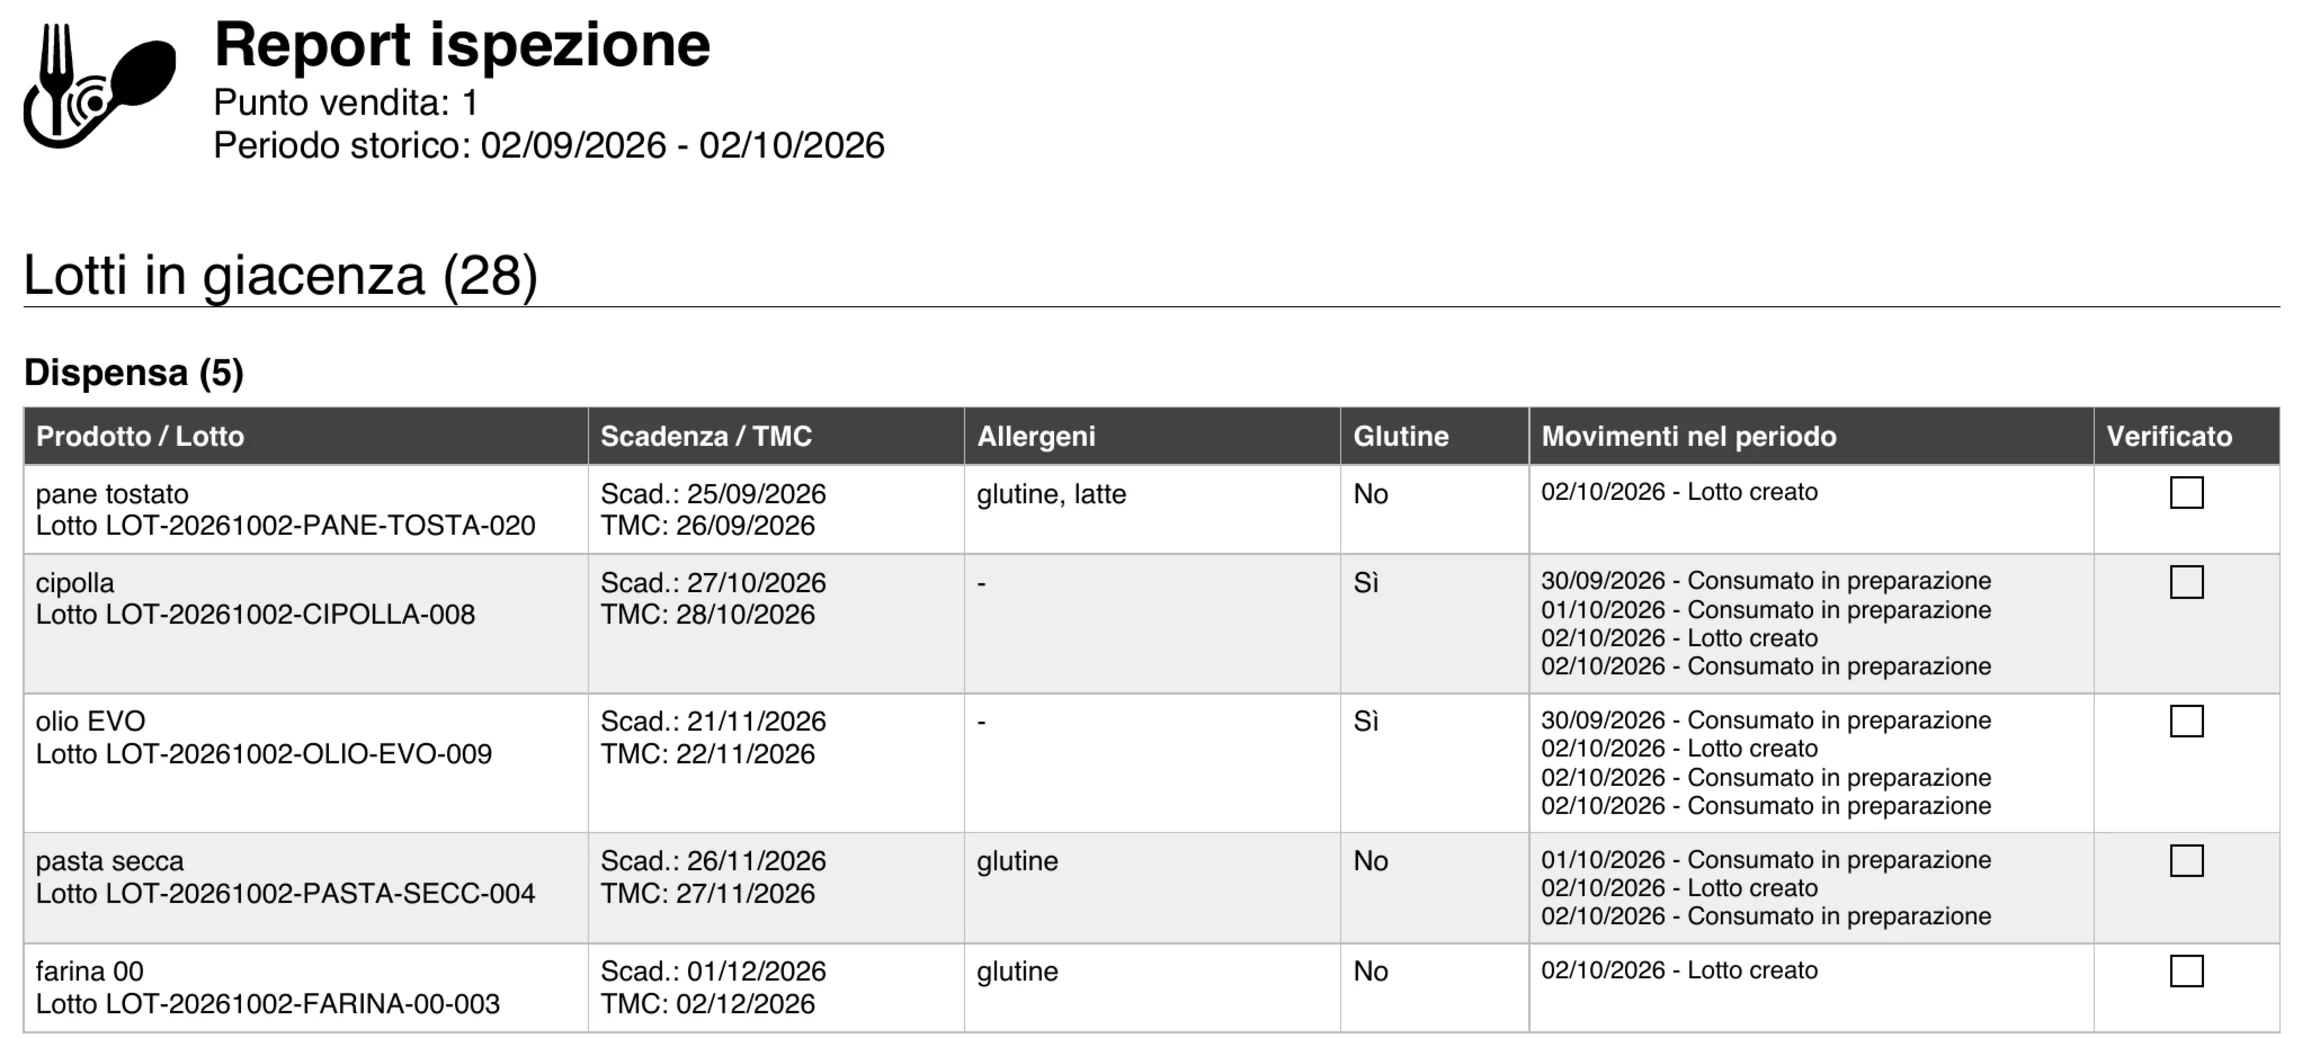
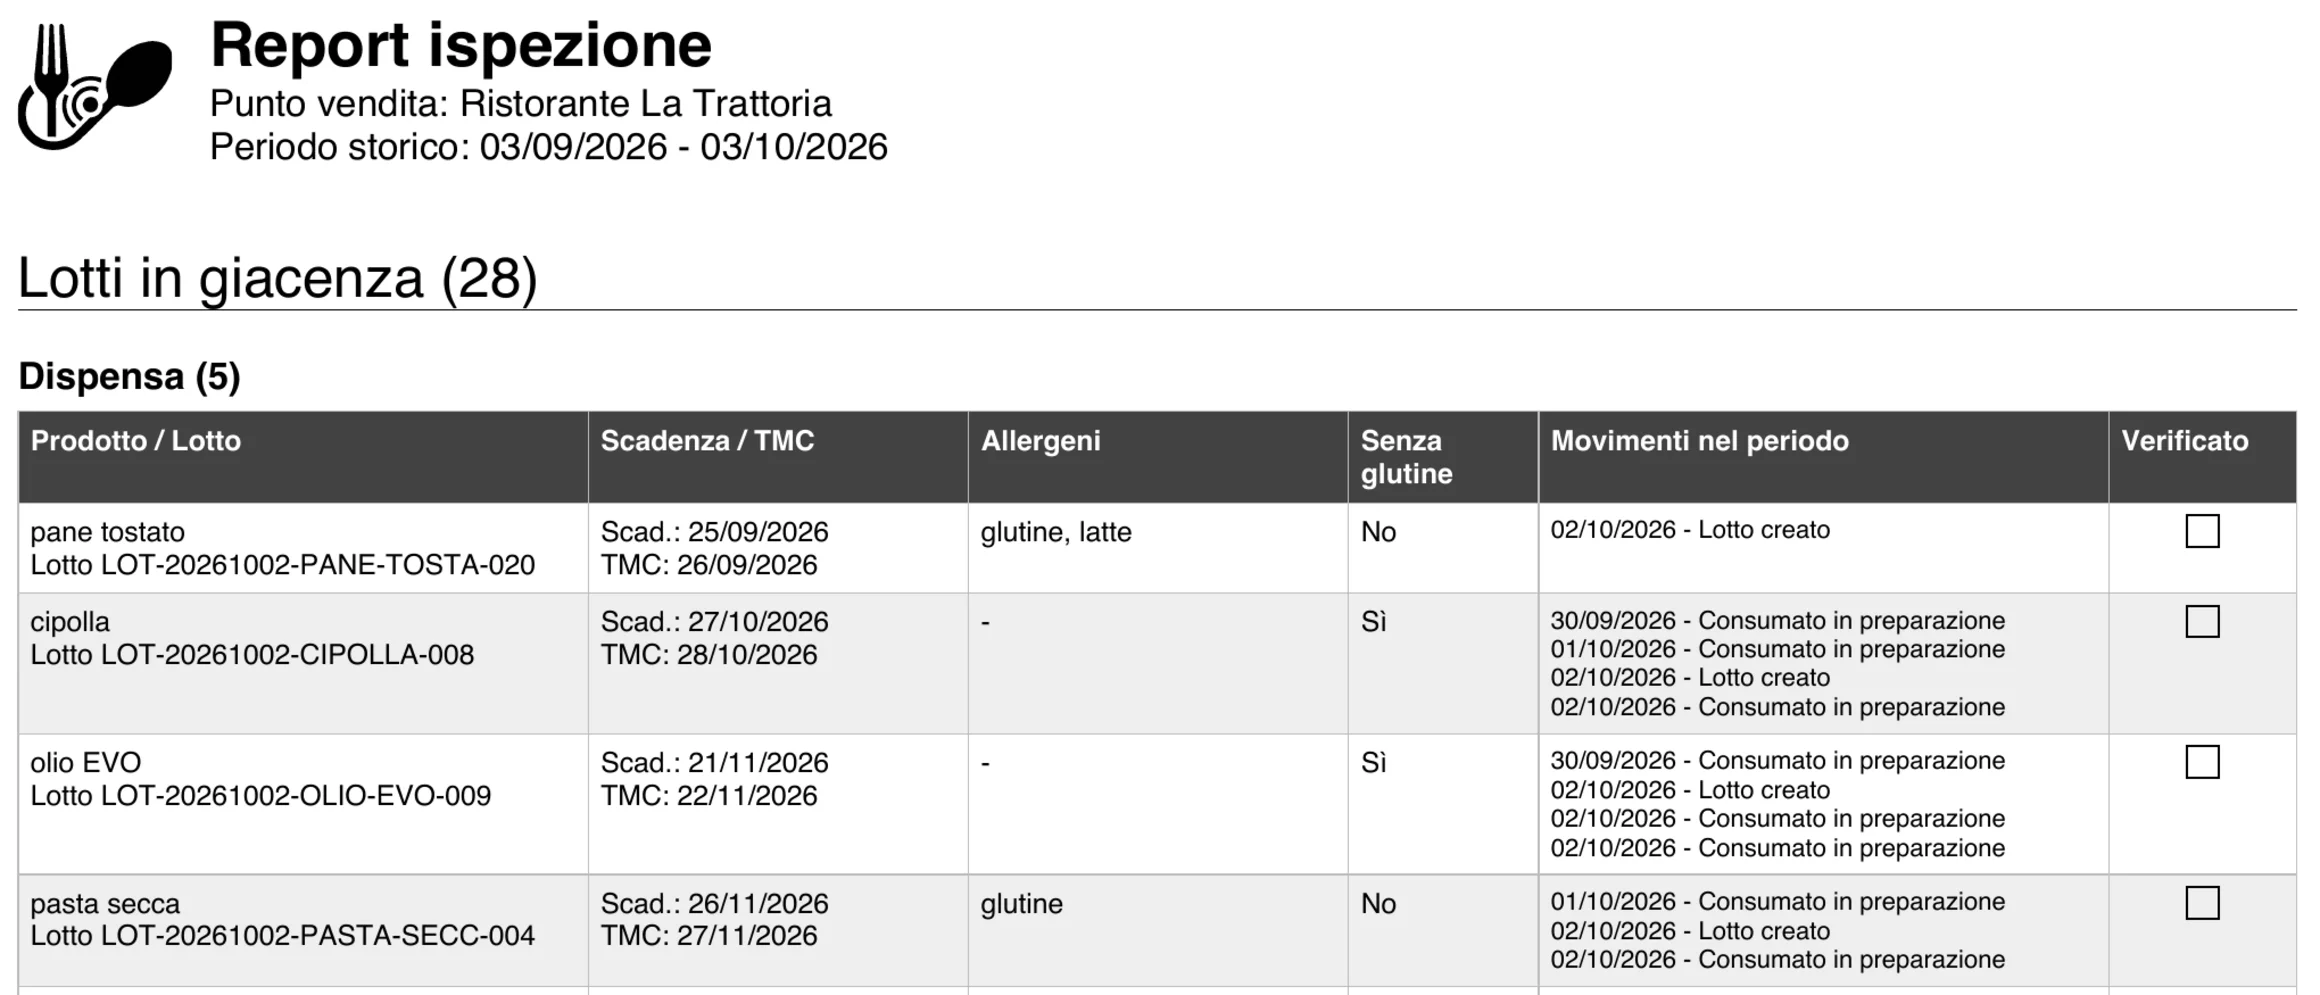
fix: report ispezione aggiornato con colonna Senza glutine e nome del punto vendita

diff --git a/site/report-ispezione-haccp.html b/site/report-ispezione-haccp.html
@@ -111,7 +111,7 @@
 <h2>Il report PDF di Restrackit</h2>
 <p>Dall'app generi un report che raccoglie i lotti in giacenza con scadenza, TMC, allergeni e movimenti, le preparazioni con i lotti usati, le letture di temperatura (punto, valore, operatore, azione correttiva) e le pulizie eseguite.</p>
 <figure>
-  <img src="/img/report-ispezione-1160.webp" srcset="/img/report-ispezione-800.webp 800w, /img/report-ispezione-1160.webp 1160w" sizes="(max-width: 792px) calc(100vw - 32px), 760px" width="1160" height="519" loading="lazy" decoding="async" alt="Prima pagina di un report ispezione generato da Restrackit: lotti in giacenza con scadenza, TMC, allergeni e movimenti, raggruppati per conservazione.">
+  <img src="/img/report-ispezione-1160.webp" srcset="/img/report-ispezione-800.webp 800w, /img/report-ispezione-1160.webp 1160w" sizes="(max-width: 792px) calc(100vw - 32px), 760px" width="1160" height="498" loading="lazy" decoding="async" alt="Prima pagina di un report ispezione generato da Restrackit: lotti in giacenza con scadenza, TMC, allergeni e movimenti, raggruppati per conservazione.">
   <figcaption class="muted">Il report per l'ispezione, generato dall'app (dati di esempio).</figcaption>
 </figure>
 

diff --git a/site/index.html b/site/index.html
@@ -96,7 +96,7 @@
         </div>
       </div>
       <figure>
-        <img class="shot" src="/img/report-ispezione-1160.webp" srcset="/img/report-ispezione-800.webp 800w, /img/report-ispezione-1160.webp 1160w, /img/report-ispezione-2320.webp 2320w" sizes="(max-width: 1192px) calc(100vw - 32px), 1160px" width="2320" height="1038" fetchpriority="high"
+        <img class="shot" src="/img/report-ispezione-1160.webp" srcset="/img/report-ispezione-800.webp 800w, /img/report-ispezione-1160.webp 1160w, /img/report-ispezione-2320.webp 2320w" sizes="(max-width: 1192px) calc(100vw - 32px), 1160px" width="2320" height="995" fetchpriority="high"
              alt="Prima pagina di un report ispezione generato da Restrackit: lotti in giacenza con scadenza, TMC, allergeni e movimenti, raggruppati per conservazione.">
         <figcaption>Il report per l'ispezione, generato dall'app (dati di esempio).</figcaption>
       </figure>
